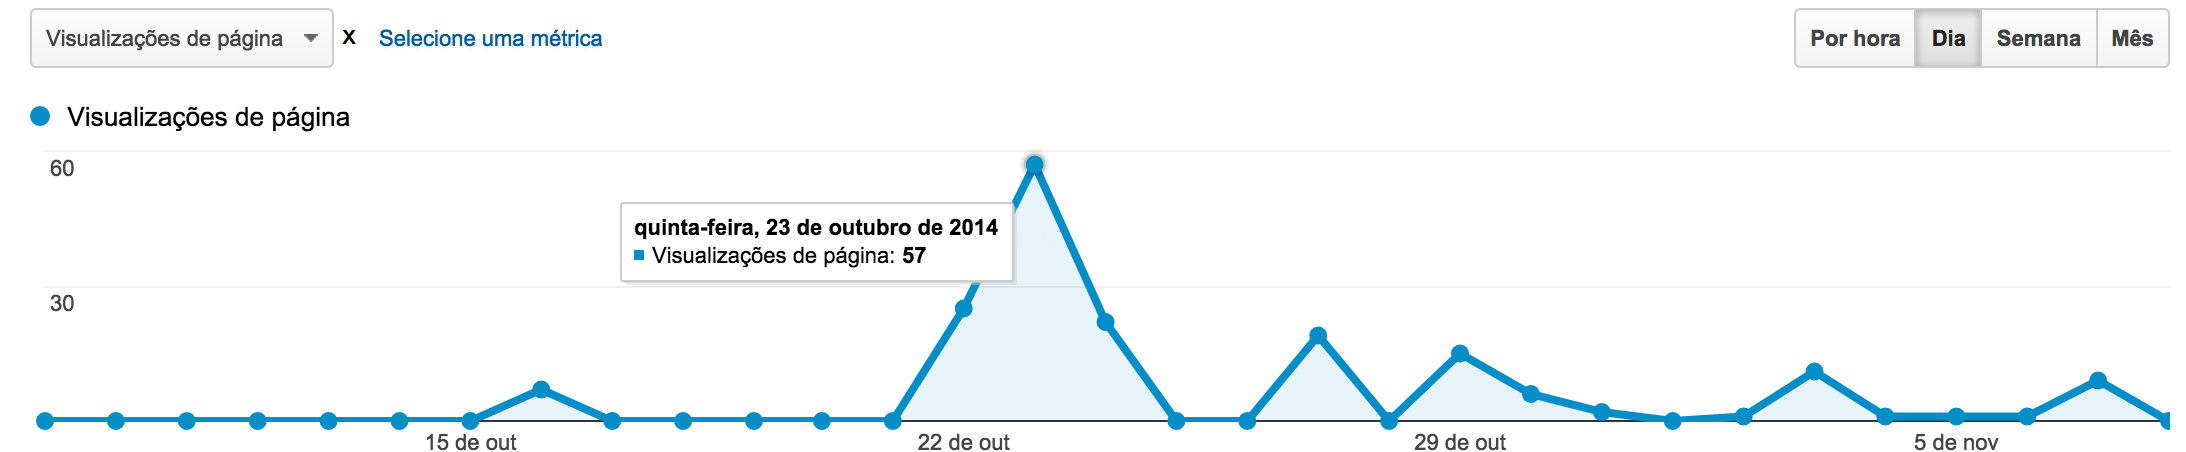
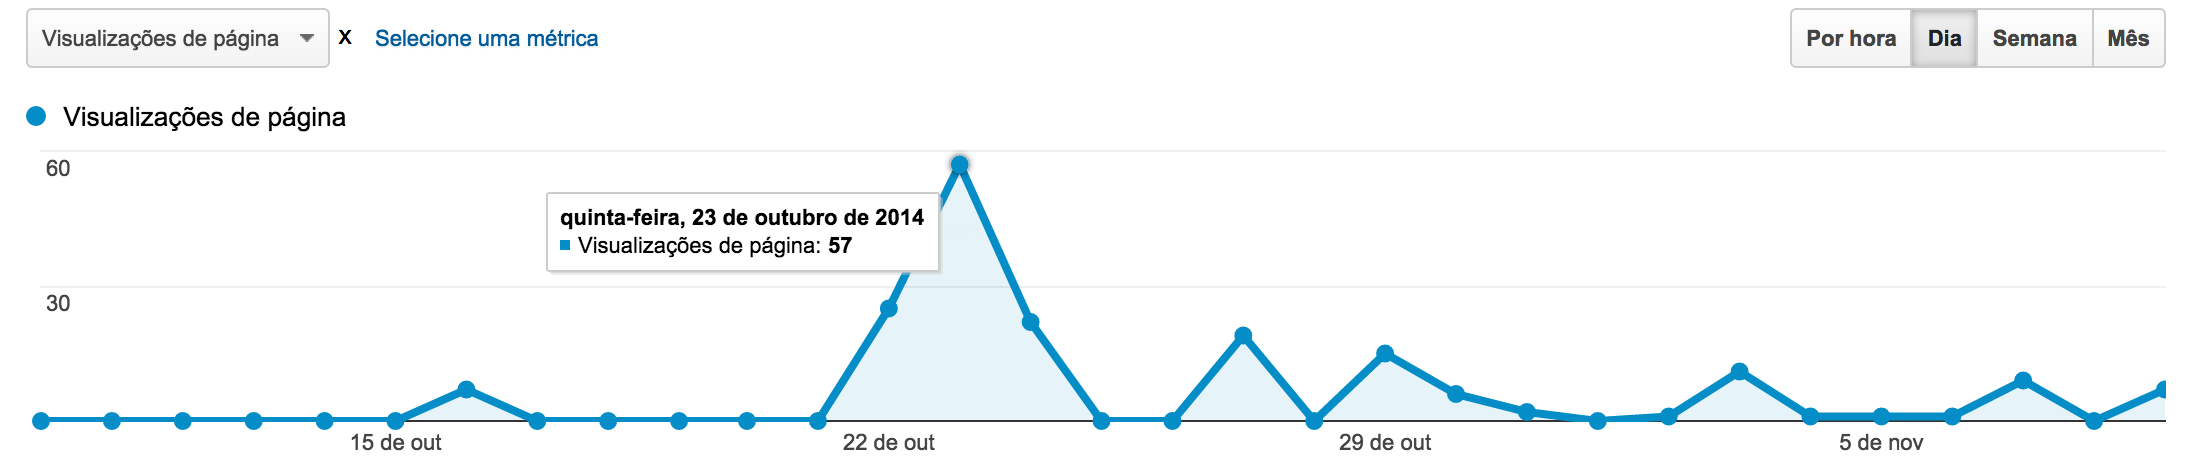
Google Analytics dados estatísticos.

diff --git a/src/document/pages/resultadosObtidos.tex b/src/document/pages/resultadosObtidos.tex
@@ -1,29 +1,178 @@
 \chapter{RESULTADOS OBTIDOS}
 \label{chp:resultadosObtidos}
  
-Pode-se observar na Figura XX, que a ferramenta de gestão de perguntas e
-respostas está sendo utilizada para gerir as questões postadas diariamente na
-lista de discussão.
+Neste capítulo, serão apresentados os resultados que foram obtidos através da
+ferramenta analítica \acs{Google Analytics} e as principais telas do sistema
+web proposto por este projeto. Sendo que, os dados estatísticos apresentados
+correspondem ao período de 11 de outubro à 09 de novembro de 2014.
 
-IMAGEM DO GRÁFICO AQUI
+Pode-se observar na Figura \ref{fig:googleAnalyticsGrafico}, que a
+ferramenta de gestão de perguntas e respostas está sendo acessada quase
+que diariamente para gerir as questões postadas na lista de discussão.
 
-Na Figura XX, destaca-se o número de visualizacoes de página na data em que a
-ferramenta foi divulgada ao grupo que superior as expectativas do autor.
-Percebe-se ainda que nos dias seguinte que a quantidade de visualizacoes se
-estabilizou, tendo a média de XX acessos diários.
+\begin{figure}[h!tb]
+	\caption{Visualizações de página}
+	\label{fig:googleAnalyticsGrafico}
 
-Estes acessos tiveram origem principalmente das cidades XX, XX e XX conforme
-ilustra a Figura XX.
+	\centering
+	\includegraphics[width=\textwidth]{images/resultados/google-analytics-grafico.png}
 
-IMAGEM DA FIGURA DE ACESSOS DAS CIDADES
+	\centering
+	\footnotesize Fonte: \fonteOAutor
+\end{figure}
 
-Nota-se ainda, que o tempo médio de acesso à ferramenta é de 02:05 minutos
-conforme ilustra a Figura XX.
+\FloatBarrier 	% Este comando impede que as imagens
+				% flutuem a partir deste ponto no seu documento
 
-% Depois das imagens analiticas ..
-As figuras XX, XX, XX e XX foram obtidas através de uma ferramenta analítica
-denominada \textit{Google Analytics}, sendo que, os dados apresentados se
-referem ao período de XX à XX.
+Na data em que a ferramenta foi divulgada ao grupo ``Rumo a certificação PHP''
+(no dia 23 de outubro de 2014), conforme exibe-se na Figura
+\ref{fig:googleAnalyticsGrafico}, o número de visualizações de página atingiu 
+57 \textit{page views}, enquanto que, o autor esperava que o número atingisse
+apenas 30 visualizações. Ainda referente a data em que houve a divulgação, 
+percebe-se que o tempo de acesso ao sistema também foi bastante elevado, sendo
+que o tempo médio para esta única data atingiu 25:04 minutos conforme ilustra a 
+Figura \ref{fig:googleAnalyticsTempoAcessoDivulgacao}.
+
+\begin{figure}[h!tb]
+	\caption{Tempo de acesso ao sistema no dia da divulgação da ferramenta}
+	\label{fig:googleAnalyticsTempoAcessoDivulgacao}
+
+	\centering
+	\includegraphics[width=\textwidth]{images/resultados/google-analytics-tempoacesso-divulgacao.png}
+
+	\centering
+	\footnotesize Fonte: \fonteOAutor
+\end{figure}
+
+\FloatBarrier 	% Este comando impede que as imagens
+				% flutuem a partir deste ponto no seu documento
+				
+Nota-se também que nos dias seguintes a quantidade de visualizações de página
+se estabilizou, onde removendo a data de divulgação da contagem a fim de não
+influenciar no resultado final da média, foi obtido o valor de 25,40 acessos
+semanais conforme os dados apresentados na Figura \ref{fig:googleAnalyticsMediaVisualizacoes}.
+
+\begin{figure}[h!tb]
+	\caption{Quantidade de visualizações de página semanais}
+	\label{fig:googleAnalyticsMediaVisualizacoes}
+
+	\centering
+	\includegraphics[width=0.6\textwidth]{images/resultados/google-analytics-media-visualizacoes.png}
+
+	\centering
+	\footnotesize Fonte: \fonteOAutor
+\end{figure}
+
+\FloatBarrier 	% Este comando impede que as imagens
+				% flutuem a partir deste ponto no seu documento
+
+Na Figura \ref{fig:googleAnalyticsCidade}, exibe-se as cidades que deram
+origem aos acessos à ferramenta de gestão de perguntas e respostas, sendo
+que, dentre elas está a cidade de Joinville/SC que é a cidade do autor.
+
+\begin{figure}[h!tb]
+	\caption{Cidades em que o acesso ao sistema foi realizado}
+	\label{fig:googleAnalyticsCidade}
+
+	\centering
+	\includegraphics[width=\textwidth]{images/resultados/google-analytics-cidade.png}
+
+	\centering
+	\footnotesize Fonte: \fonteOAutor
+\end{figure}
+
+\FloatBarrier 	% Este comando impede que as imagens
+				% flutuem a partir deste ponto no seu documento
+			
+Referente a estatísticas de formas de acesso, nenhum uso de \textit{smartphone}
+ou \textit{tablet} foi registrado, mas nota-se que dentre os sistemas
+operacionais dos profissionais que utilizaram a aplicação está o
+\textit{Windows} com 46,81\%, o \textit{Macintosh} com 29,79\% e o
+\textit{Linux} com 23,40\%, e em contrapartida, o navegador web mais utilizado 
+para o uso da ferramenta foi o \textit{Google Chrome} com 57,45\% do total,
+seguido pelo \textit{Firefox} com 38,30\% e pelo \textit{Safari} com 4,26\%
+conforme apresenta-se na Figura
+\ref{fig:googleAnalyticsSistemaOperacionalNavegador}.
+
+\begin{figure}[h!tb]
+	\caption{Sistemas Operacionais e Navegadores utilizados para acesso ao
+	sistema web}
+	\label{fig:googleAnalyticsSistemaOperacionalNavegador}
+
+	\centering
+	\includegraphics[width=\textwidth]{images/resultados/google-analytics-os-browser.png}
+
+	\centering
+	\footnotesize Fonte: \fonteOAutor
+\end{figure}
+
+\FloatBarrier 	% Este comando impede que as imagens
+				% flutuem a partir deste ponto no seu documento
+
+Nota-se ainda, conforme ilustra a Figura \ref{fig:googleAnalyticsTempoAcesso},
+que o tempo médio de acesso à ferramenta é de 02:01 minutos o que permite que um 
+colaborador da lista de discussão acesse o sistema gere uma pergunta diária de
+maneira anonima e em seguida encerre a sessão, justificando também a taxa de
+rejeição de 31,91\%.
+
+\begin{figure}[h!tb]
+	\caption{Tempo médio de permanência de um usuário na ferramenta}
+	\label{fig:googleAnalyticsTempoAcesso}
+
+	\centering
+	\includegraphics[width=0.7\textwidth]{images/resultados/google-analytics-dados.png}
+
+	\centering
+	\footnotesize Fonte: \fonteOAutor
+\end{figure}
+
+\FloatBarrier 	% Este comando impede que as imagens
+				% flutuem a partir deste ponto no seu documento
+
+Além disto, percebe-se na Figura \ref{fig:googleAnalyticsTempoAcesso} que dentre
+as 47 sessões existentes, os 33 usuários navegaram pelo sistema acessando quase
+quatro páginas por sessão, outro detalhe importante, é que houve na média mais
+do que um acesso por dia ao sistema o que fortalece o fato de que a ferramenta
+está sendo utilizada para gerir as perguntas diárias postadas na lista de
+discussão.
+
+Na Figura \ref{fig:googleAnalyticsPaginas}, exibe-se as páginas mais acessadas
+da aplicação web, nota-se que, todos os usuários entram na página inicial e em
+seguida a maioria acessa de forma anonima, entretanto alguns antes de efetuarem
+tal ação selecionam um idioma (dentre os disponíveis estão o português do
+brasil e o inglês internacional).
+
+\begin{figure}[h!tb]
+	\caption{Páginas do sistema mais acessadas}
+	\label{fig:googleAnalyticsPaginas}
+
+	\centering
+	\includegraphics[width=\textwidth]{images/resultados/google-analytics-paginas.png}
+
+	\centering
+	\footnotesize Fonte: \fonteOAutor
+\end{figure}
+
+\FloatBarrier 	% Este comando impede que as imagens
+				% flutuem a partir deste ponto no seu documento
+
+No que diz respeito ao idioma de acesso do sistema, na Figura
+\ref{fig:googleAnalyticsIdioma}, exibe-se a quantidade de acessos categorizados
+através do idioma dos usuários.
+
+\begin{figure}[h!tb]
+	\caption{Idioma dos usuários que realizaram acesso à ferramenta}
+	\label{fig:googleAnalyticsIdioma}
+
+	\centering
+	\includegraphics[width=\textwidth]{images/resultados/google-analytics-idioma.png}
+
+	\centering
+	\footnotesize Fonte: \fonteOAutor
+\end{figure}
+
+\FloatBarrier 	% Este comando impede que as imagens
+				% flutuem a partir deste ponto no seu documento
 
 
 

diff --git a/src/glossario.tex b/src/glossario.tex
@@ -12,6 +12,8 @@ lógica de um programa}}
 \acro{E/S}			[E/S]{\textit{Entrada/Saída}}
 \acro{Excel}		[Excel]{\textit{aplicativo desenvolvido pela Microsoft para
 criação de planilhas eletrônicas}}
+\acro{Google Analytics}	[Google Analytics]{\textit{Ferramenta gratuita fornececida pela
+Google para análise de conteúdos web}}
 \acro{GUI}			[GUI]{\textit{Graphics User Interface}}
 \acro{HTML}			[HTML]{\textit{Linguagem de Marcação de Hipertexto}}
 \acro{HTTP}			[HTTP]{\textit{Hypertext Transfer Protocol}}
